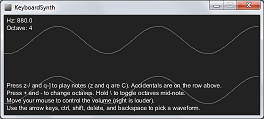
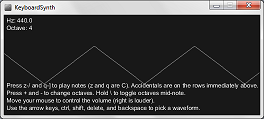
Updated music pages

diff --git a/templates/music.html b/templates/music.html
@@ -1,7 +1,7 @@
 {% extends "_main.html" %}
 {% block content %}
     <h1>Music</h1>
-    <p>In addition to coding, I also spend my free time making music. And coding things that can make music. Here are some music-related applications and sketches that I've written in <a href="https://processing.org/" target="_blank">Processing</a> and JavaScript (using <a href="http://p5js.org/" target="_blank">p5.js</a>). There are some differences between the web and downloadable versions because Processing and p5.js have different sound libraries. For best performance, consider using Chrome or Opera for the web versions.</a>
+    <p>In addition to coding silly things, I also spend my free time making music and coding things that can make music. Here are some music-related applications and sketches that I've written in <a href="https://processing.org/" target="_blank">Processing</a> and JavaScript (using <a href="http://p5js.org/" target="_blank">p5.js</a>). There are some differences between the web and downloadable versions because Processing and p5.js use separate sound libraries. For best performance, consider using Chrome or Opera for the web versions.</a>
     <p>If you use Chrome, your browser may give you a warning if you try to download a file with the .jar extension. You can safely ignore it and keep the file. To run my JAR files, you may need to update or download the <a href="https://java.com/en/download/" target="_blank">Java Runtime Environment</a>.</p>
     <p>If you're a Processing/Java or JavaScript programmer, feel free to play around with my source code!</p>
     <br>

diff --git a/site/music.html b/site/music.html
@@ -23,7 +23,7 @@
     </header>
     
     <h1>Music</h1>
-    <p>In addition to coding, I also spend my free time making music. And coding things that can make music. Here are some music-related applications and sketches that I've written in <a href="https://processing.org/" target="_blank">Processing</a> and JavaScript (using <a href="http://p5js.org/" target="_blank">p5.js</a>). There are some differences between the web and downloadable versions because Processing and p5.js have different sound libraries. For best performance, consider using Chrome or Opera for the web versions.</a>
+    <p>In addition to coding silly things, I also spend my free time making music and coding things that can make music. Here are some music-related applications and sketches that I've written in <a href="https://processing.org/" target="_blank">Processing</a> and JavaScript (using <a href="http://p5js.org/" target="_blank">p5.js</a>). There are some differences between the web and downloadable versions because Processing and p5.js use separate sound libraries. For best performance, consider using Chrome or Opera for the web versions.</a>
     <p>If you use Chrome, your browser may give you a warning if you try to download a file with the .jar extension. You can safely ignore it and keep the file. To run my JAR files, you may need to update or download the <a href="https://java.com/en/download/" target="_blank">Java Runtime Environment</a>.</p>
     <p>If you're a Processing/Java or JavaScript programmer, feel free to play around with my source code!</p>
     <br>

diff --git a/site/ribbonsynth.js b/site/ribbonsynth.js
@@ -9,6 +9,7 @@ var soundFile;
 var waveMap = {};
 
 var numNotes = 88;
+var maxNote = numNotes + 1;
 var quantize = true;
 var active = false;
 var octave = false;
@@ -36,7 +37,7 @@ function draw() {
   var i;
   stroke(159, 0, 0);
   if (mouseIsPressed) {
-    note = map(mouseX, 0.0, width, 1.0, numNotes + 1.0);
+    note = constrain(map(mouseX, 0.0, width, 1.0, maxNote), 1.0, numNotes);
     if (quantize) {
       note = floor(note);
     }
@@ -45,7 +46,7 @@ function draw() {
     }
     frequency = pow(2.0, (note - 49.0) / 12.0) * 440.0;
     wave.freq(frequency, quantize ? 0 : 0.015);
-    volume = map(mouseY, 0.0, height, 1.0, 0.0)
+    volume = constrain(map(mouseY, 0.0, height, 1.0, 0.0), 0.0, 1.0);
     wave.amp(volume, 0.01);
   }
   for (i = 0; i < numNotes; i += 1) {
